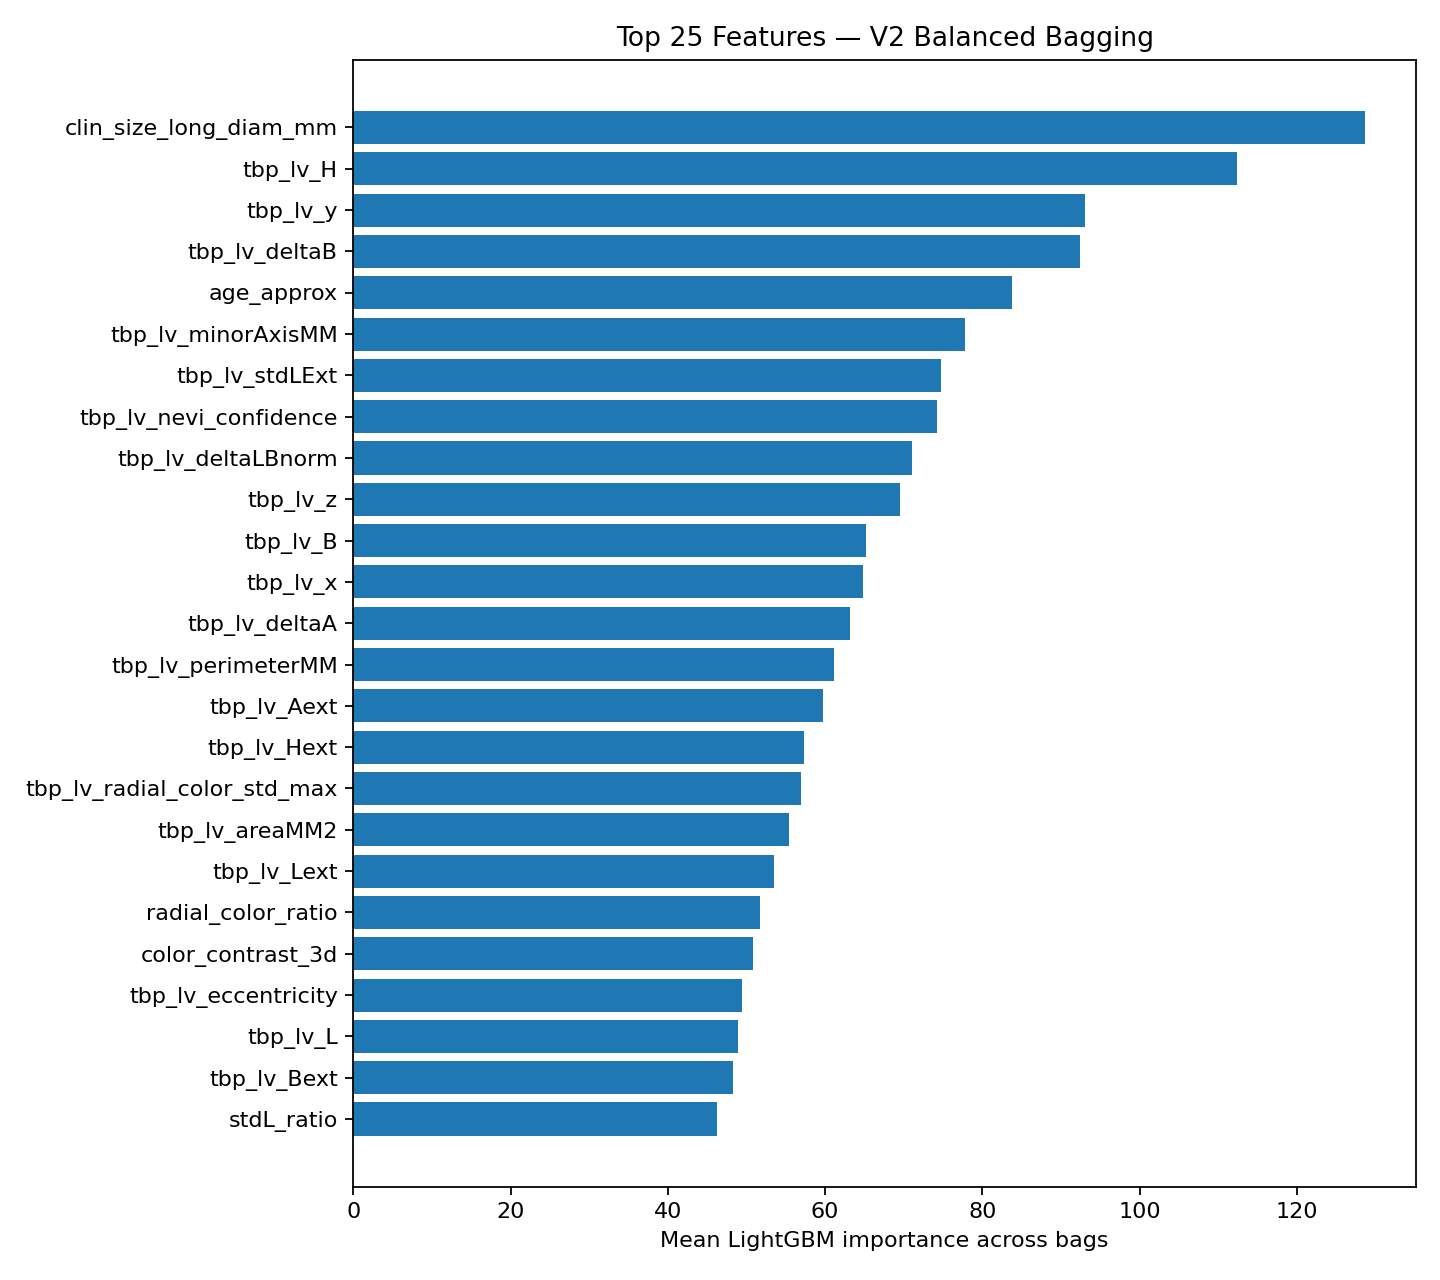
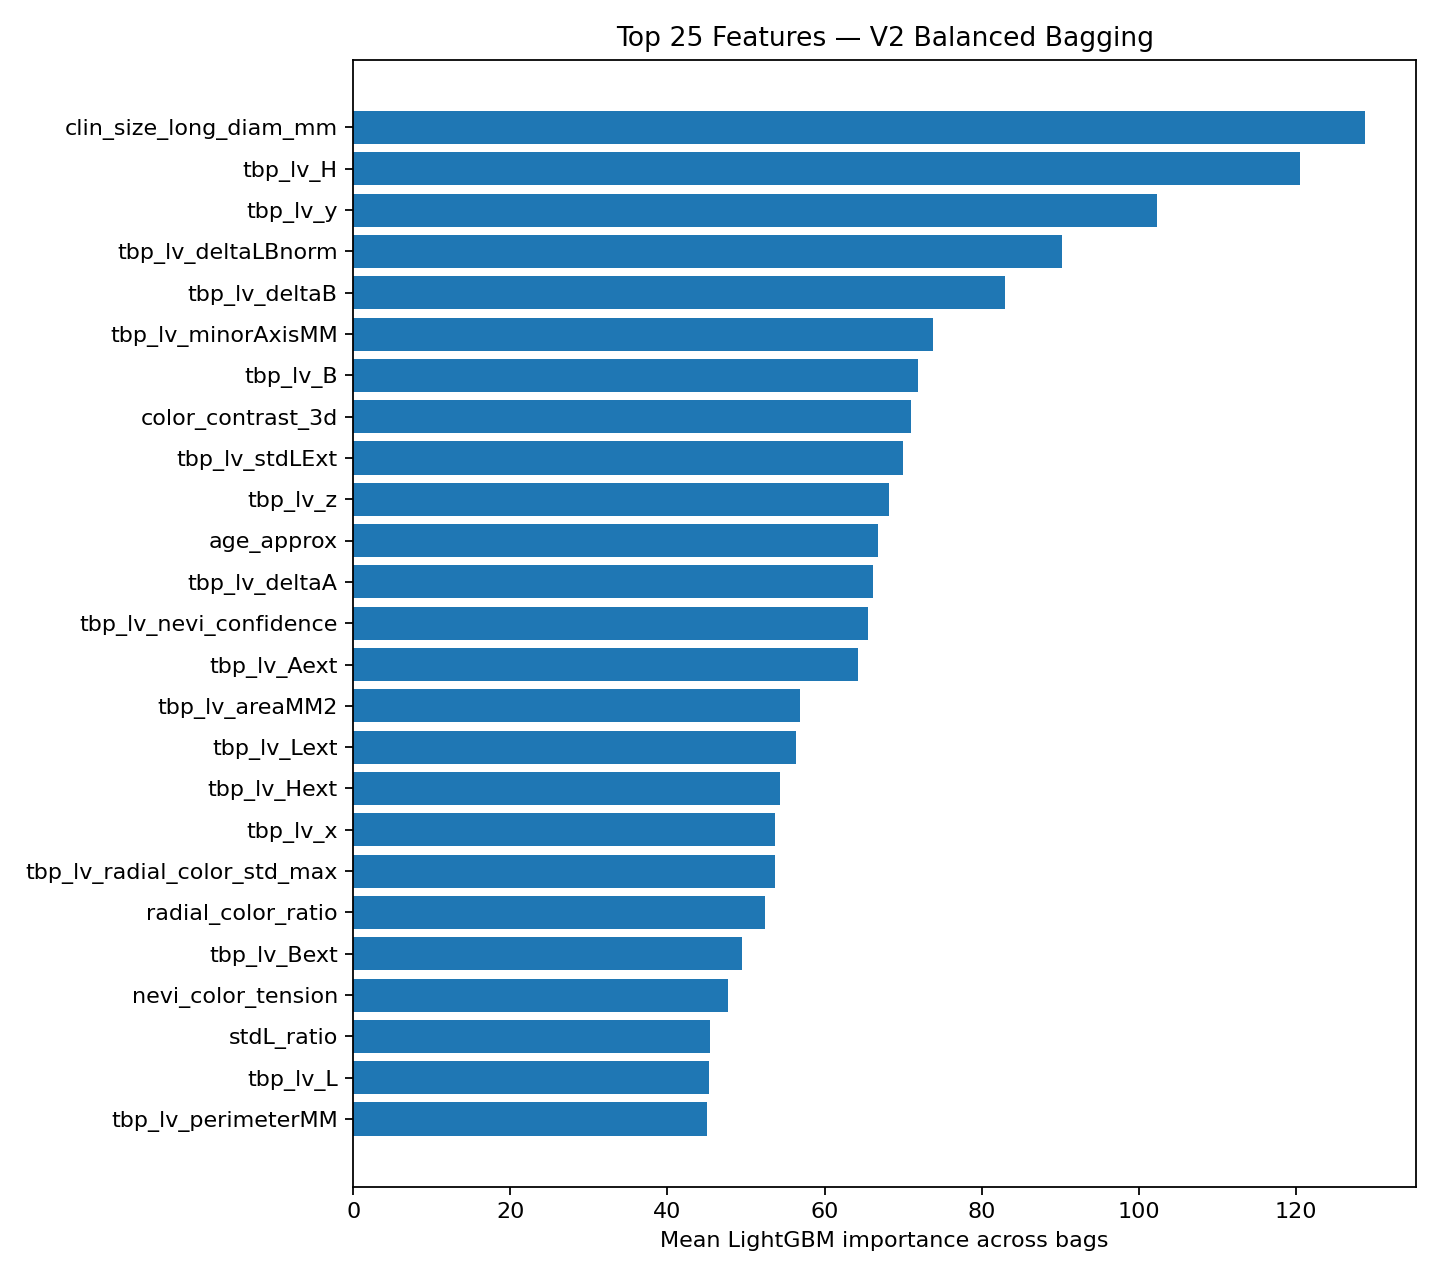
Refactor data loading and processing in balanced bagging model; update metrics and reports for improved clarity and accuracy

diff --git a/models/model_v2/isic_model_v2_balanced_bagging.py b/models/model_v2/isic_model_v2_balanced_bagging.py
@@ -41,7 +41,7 @@ from sklearn.metrics import (
     confusion_matrix,
     ConfusionMatrixDisplay,
 )
-from sklearn.model_selection import StratifiedGroupKFold, train_test_split
+from sklearn.model_selection import train_test_split
 from sklearn.pipeline import Pipeline
 from sklearn.preprocessing import OneHotEncoder
 from lightgbm import LGBMClassifier
@@ -55,12 +55,12 @@ _HERE = Path(__file__).resolve().parent
 # =============================================================================
 
 DATA_DIR = Path(os.getenv("DATA_DIR", str((_HERE / "../../datasets").resolve())))
-METADATA_FILE = DATA_DIR / "metadata.csv"
-LABELS_FILE = DATA_DIR / "labels.csv"
+DATASET_FILE = DATA_DIR / "datasetv3_raw_metadata_labels_merged.csv"
 
 OUTPUT_DIR = Path(os.getenv("OUTPUT_DIR", str((_HERE / "../../outputs/v2_outputs").resolve())))
 REPORT_DIR = OUTPUT_DIR / "reports"
 GRAPH_DIR = OUTPUT_DIR / "graphs"
+PROCESSED_DATA_DIR = _HERE / "processed_data"
 
 RANDOM_STATE = int(os.getenv("RANDOM_STATE", "42"))
 TEST_SIZE = float(os.getenv("TEST_SIZE", "0.20"))
@@ -69,9 +69,6 @@ TEST_SIZE = float(os.getenv("TEST_SIZE", "0.20"))
 N_BAGS = int(os.getenv("N_BAGS", "30"))
 BENIGN_TO_MALIGNANT_RATIO = int(os.getenv("BENIGN_RATIO", "5"))  # try 5, 10, 20
 N_ESTIMATORS = int(os.getenv("N_ESTIMATORS", "200"))
-
-# Use patient-level split when possible to reduce patient leakage.
-USE_PATIENT_GROUP_SPLIT = os.getenv("USE_PATIENT_GROUP_SPLIT", "1") == "1"
 
 # LightGBM settings tuned for small balanced bags, not the full 400k:393 ratio.
 LGBM_PARAMS = {
@@ -98,6 +95,24 @@ ID_COLS_TO_KEEP_IN_OUTPUT = ["isic_id", "patient_id"]
 TOP_K_VALUES = [100, 500, 1000, 5000]
 TARGET_RECALLS = [0.70, 0.80, 0.90]
 
+# Same clip ranges used by data_preprocessing_pipeline.py to produce datasetv4.
+CLIP_RANGES = {
+    "age_approx":              (0,   85),
+    "clin_size_long_diam_mm":  (0,  150),
+    "tbp_lv_nevi_confidence":  (0,  100),
+    "tbp_lv_eccentricity":     (0,    1),
+    "tbp_lv_symm_2axis":       (0,    1),
+    "tbp_lv_norm_border":      (0,   10),
+    "tbp_lv_norm_color":       (0,   10),
+    "tbp_lv_area_perim_ratio": (0,  100),
+    "tbp_lv_areaMM2":          (0, 5000),
+    "tbp_lv_perimeterMM":      (0,  500),
+    "tbp_lv_minorAxisMM":      (0,  100),
+}
+
+_CAT_COLS_FOR_IMPUTE = ["sex", "anatom_site_general", "tbp_lv_location",
+                        "tbp_lv_location_simple", "image_type", "tbp_tile_type"]
+
 
 # =============================================================================
 # HELPERS
@@ -106,6 +121,7 @@ TARGET_RECALLS = [0.70, 0.80, 0.90]
 def make_dirs() -> None:
     REPORT_DIR.mkdir(parents=True, exist_ok=True)
     GRAPH_DIR.mkdir(parents=True, exist_ok=True)
+    PROCESSED_DATA_DIR.mkdir(parents=True, exist_ok=True)
 
 
 def make_ohe() -> OneHotEncoder:
@@ -117,7 +133,6 @@ def make_ohe() -> OneHotEncoder:
 
 
 def add_engineered_features(df: pd.DataFrame) -> pd.DataFrame:
-    """Add the previous engineered features while keeping the original TBP columns."""
     df = df.copy()
     eps = 1e-6
 
@@ -128,60 +143,59 @@ def add_engineered_features(df: pd.DataFrame) -> pd.DataFrame:
         df["color_contrast_3d"] = np.sqrt(
             df["tbp_lv_deltaA"] ** 2 + df["tbp_lv_deltaB"] ** 2 + df["tbp_lv_deltaL"] ** 2
         )
-
     if has("clin_size_long_diam_mm", "tbp_lv_minorAxisMM"):
         df["elongation"] = df["clin_size_long_diam_mm"] / (df["tbp_lv_minorAxisMM"] + eps)
-
     if has("tbp_lv_nevi_confidence", "tbp_lv_color_std_mean"):
         df["nevi_color_tension"] = df["tbp_lv_nevi_confidence"] - df["tbp_lv_color_std_mean"]
-
     if has("tbp_lv_areaMM2"):
         df["log_area"] = np.log1p(df["tbp_lv_areaMM2"])
-
     if has("tbp_lv_stdL", "tbp_lv_stdLExt"):
         df["stdL_ratio"] = df["tbp_lv_stdL"] / (df["tbp_lv_stdLExt"] + eps)
-
     if has("tbp_lv_areaMM2", "tbp_lv_perimeterMM"):
         df["compactness"] = 4 * np.pi * df["tbp_lv_areaMM2"] / (df["tbp_lv_perimeterMM"] ** 2 + eps)
-
     if has("tbp_lv_C", "tbp_lv_Cext"):
         df["chroma_contrast"] = df["tbp_lv_C"] - df["tbp_lv_Cext"]
-
     if has("tbp_lv_radial_color_std_max", "tbp_lv_color_std_mean"):
         df["radial_color_ratio"] = df["tbp_lv_radial_color_std_max"] / (
             df["tbp_lv_color_std_mean"] + eps
         )
-
     return df
 
 
 def load_data() -> pd.DataFrame:
-    if not METADATA_FILE.exists():
-        raise FileNotFoundError(f"Missing {METADATA_FILE}")
-    if not LABELS_FILE.exists():
-        raise FileNotFoundError(f"Missing {LABELS_FILE}")
+    if not DATASET_FILE.exists():
+        raise FileNotFoundError(f"Missing {DATASET_FILE}")
 
-    metadata = pd.read_csv(METADATA_FILE)
-    labels = pd.read_csv(LABELS_FILE)
-    df = metadata.merge(labels, on="isic_id", how="inner")
+    df = pd.read_csv(DATASET_FILE)
     df["malignant"] = df["malignant"].astype(int)
+
+    # Step 1: impute — same strategy as data_preprocessing_pipeline.py
+    cat_src = [c for c in _CAT_COLS_FOR_IMPUTE if c in df.columns]
+    num_src = [
+        c for c in df.columns
+        if c not in cat_src + ["isic_id", "patient_id", "malignant"]
+        and pd.api.types.is_numeric_dtype(df[c])
+    ]
+    if num_src:
+        df[num_src] = SimpleImputer(strategy="median").fit_transform(df[num_src])
+    if cat_src:
+        df[cat_src] = SimpleImputer(strategy="most_frequent").fit_transform(df[cat_src])
+
+    # Step 2: clip outliers — same ranges as data_preprocessing_pipeline.py
+    for col, (lo, hi) in CLIP_RANGES.items():
+        if col in df.columns:
+            df[col] = df[col].clip(lo, hi)
+
+    # Step 3: engineer features using the same formulas as data_preprocessing_pipeline.py
     df = add_engineered_features(df)
     return df
 
 
 def split_train_test(df: pd.DataFrame) -> tuple[pd.DataFrame, pd.DataFrame]:
     y = df["malignant"].values
-
-    if USE_PATIENT_GROUP_SPLIT and "patient_id" in df.columns:
-        # 5 folds approximates an 80/20 train/test split.
-        groups = df["patient_id"].fillna("missing_patient").astype(str).values
-        sgkf = StratifiedGroupKFold(n_splits=int(round(1 / TEST_SIZE)), shuffle=True, random_state=RANDOM_STATE)
-        train_idx, test_idx = next(sgkf.split(df, y, groups))
-    else:
-        train_idx, test_idx = train_test_split(
-            np.arange(len(df)), test_size=TEST_SIZE, stratify=y, random_state=RANDOM_STATE
-        )
-
+    train_idx, test_idx = train_test_split(
+        np.arange(len(df)), test_size=TEST_SIZE, stratify=y, random_state=RANDOM_STATE
+    )
     train_df = df.iloc[train_idx].reset_index(drop=True)
     test_df = df.iloc[test_idx].reset_index(drop=True)
     return train_df, test_df
@@ -413,7 +427,12 @@ def main() -> None:
     }).sort_values("importance", ascending=False).reset_index(drop=True)
     importance["rank"] = np.arange(1, len(importance) + 1)
 
-    # Save predictions with useful ID columns if available.
+    # Save train/test splits to processed_data folder.
+    train_df.to_csv(PROCESSED_DATA_DIR / "v2_train.csv", index=False)
+    test_df.to_csv(PROCESSED_DATA_DIR / "v2_test.csv", index=False)
+    print(f"\n✓ Train/test splits saved to {PROCESSED_DATA_DIR}")
+
+    # Save predictions with ID columns if available.
     output_cols = [c for c in ID_COLS_TO_KEEP_IN_OUTPUT if c in test_df.columns]
     output_cols += ["malignant"]
     pred_out = test_df[output_cols].copy()
@@ -448,7 +467,7 @@ def main() -> None:
         f"  Test rows         : {len(test_df):,}",
         f"  Test malignant    : {int(y_test.sum()):,}",
         f"  Test benign       : {int((y_test == 0).sum()):,}",
-        f"  Patient group split: {USE_PATIENT_GROUP_SPLIT}",
+        f"  Split strategy     : stratified random (80/20)",
         "",
         "MODEL",
         f"  Algorithm         : LightGBM balanced undersampling ensemble",